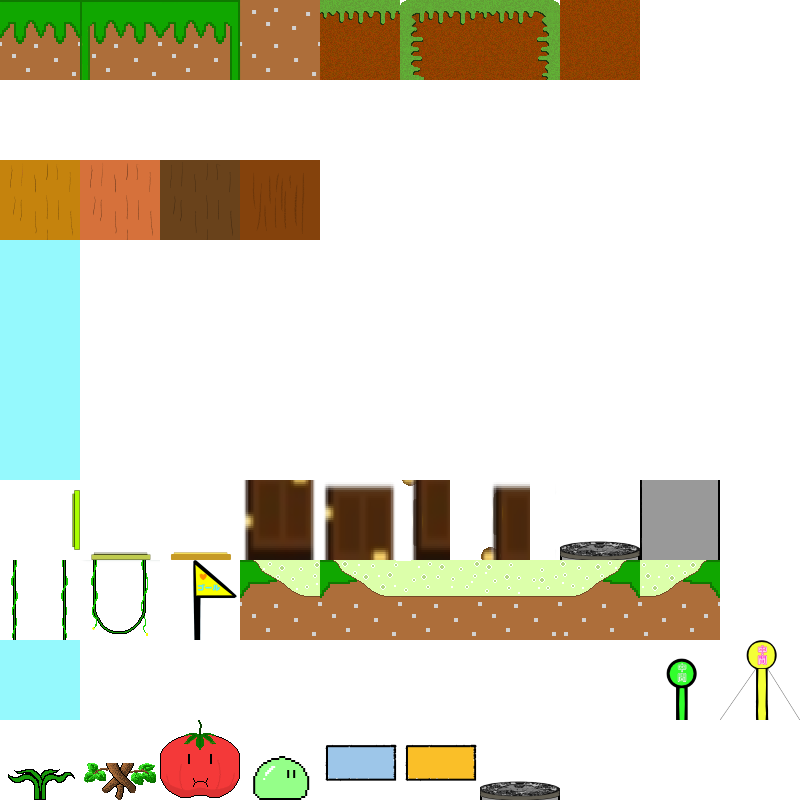
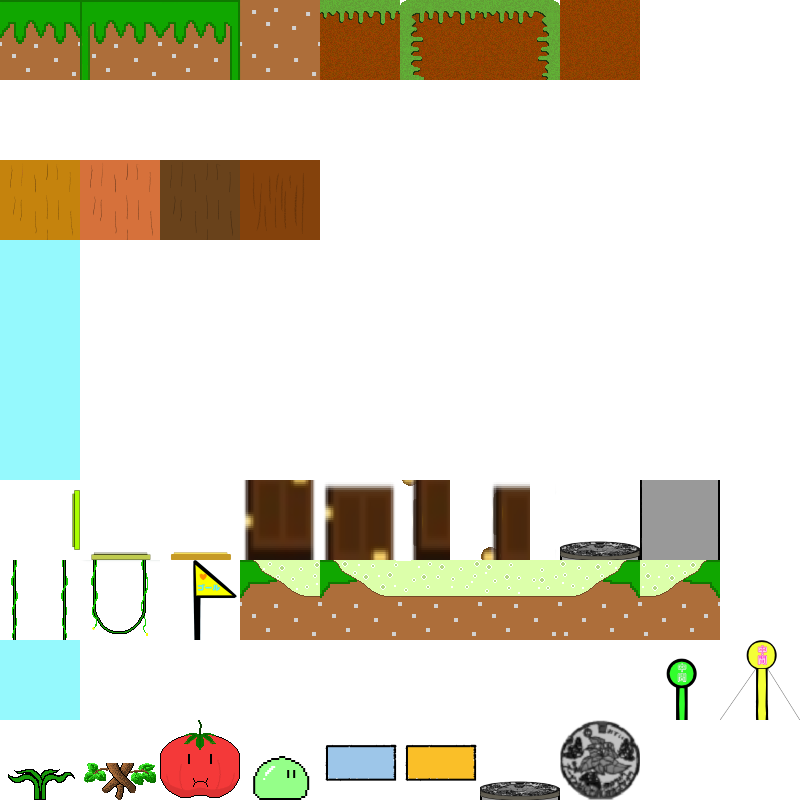
Changed Manhol

Changed region(s): [[0.6875, 0.875, 0.8125, 1.0]]

diff --git a/GFF2-4A/RESULT.cpp b/GFF2-4A/RESULT.cpp
@@ -72,7 +72,7 @@ AbstractScene* RESULT::Update() {
 	if (effect_timer[0] >= 40 && effect_timer[1] < 100) { ++effect_timer[1]; }
 	else { effect_timer[1] = 100; }
 
-	if (win == true && timer > 8 * 60) { PlaySoundMem(good_se[se_randnum], DX_PLAYTYPE_BACK, FALSE); }
+	if (win == true && timer > 9 * 60) { PlaySoundMem(good_se[se_randnum], DX_PLAYTYPE_BACK, FALSE); }
 	if(win == false && timer > 5 * 80){ PlaySoundMem(bad_se[se_randnum], DX_PLAYTYPE_BACK, FALSE); }
 	if (timer <= 5 * 60) { if (CheckSoundMem(count_se) == FALSE)PlaySoundMem(count_se, DX_PLAYTYPE_BACK, FALSE); }
 
